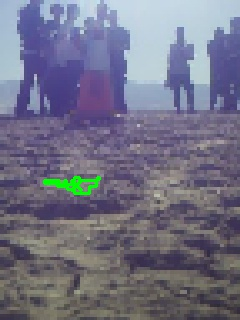
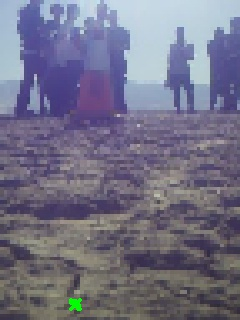
a

Changed region(s): [[0.175, 0.5312, 0.4375, 0.625], [0.2625, 0.9062, 0.35, 1.0]]

diff --git a/detect_main.py b/detect_main.py
@@ -13,12 +13,12 @@ def detect_red(small_img):
     hsv_img = cv2.cvtColor(small_img, cv2.COLOR_BGR2HSV)
     
     # 赤色のHSVの値域1
-    red_min = np.array([0,30,15])
-    red_max = np.array([16,255,255])
+    red_min = np.array([0,30,30])
+    red_max = np.array([15,255,255])
     mask1 = cv2.inRange(hsv_img, red_min, red_max)
     
     # 赤色のHSVの値域2
-    red_min = np.array([150,5,5])
+    red_min = np.array([150,30,30])
     red_max = np.array([179,255,255])
     mask2 = cv2.inRange(hsv_img, red_min, red_max)
     
